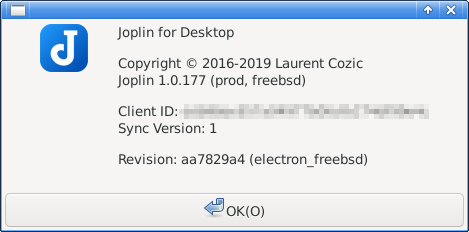
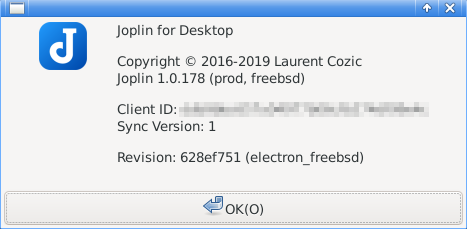
Update target Joplin version to 1.0.178.

diff --git a/content/playing-with-bsd/application/howto-use-joplin-on-freebsd.md b/content/playing-with-bsd/application/howto-use-joplin-on-freebsd.md
@@ -1,6 +1,7 @@
 ---
 title: "How to use Joplin desktop app on FreeBSD"
 date: 2020-01-15T20:26:00+09:00
+lastmod: 2020-01-21T06:31:00+09:00
 draft: false
 tags: [ "application", "installation", "freebsd", "font" ]
 toc: true
@@ -10,7 +11,7 @@ This is a quick note on how I build and use the latest Joplin desktop app on Fre
 For my initial exploration of Joplin on FreeBSD, please refer to the [previous post](/playing-with-bsd/application/joplin-on-freebsd).
 
 ## Target Version
-The current target version of this article is Joplin Electron (pre-)release v1.0.177 (Dec 2019).
+The current target version of this article is Joplin Electron release v1.0.178 (Jan 2020).
 ![Joplin Version](/images/howto-use-joplin-on-freebsd/JoplinVersion.png)
 
 ## Building Joplin
@@ -119,4 +120,4 @@ Fortunately, this issue can be worked around by using a [special font](/misc/NoL
 
 ## Revision History
 * 2020-01-15: Created
-
+* 2020-01-20: Updated the target version to 1.0.178
